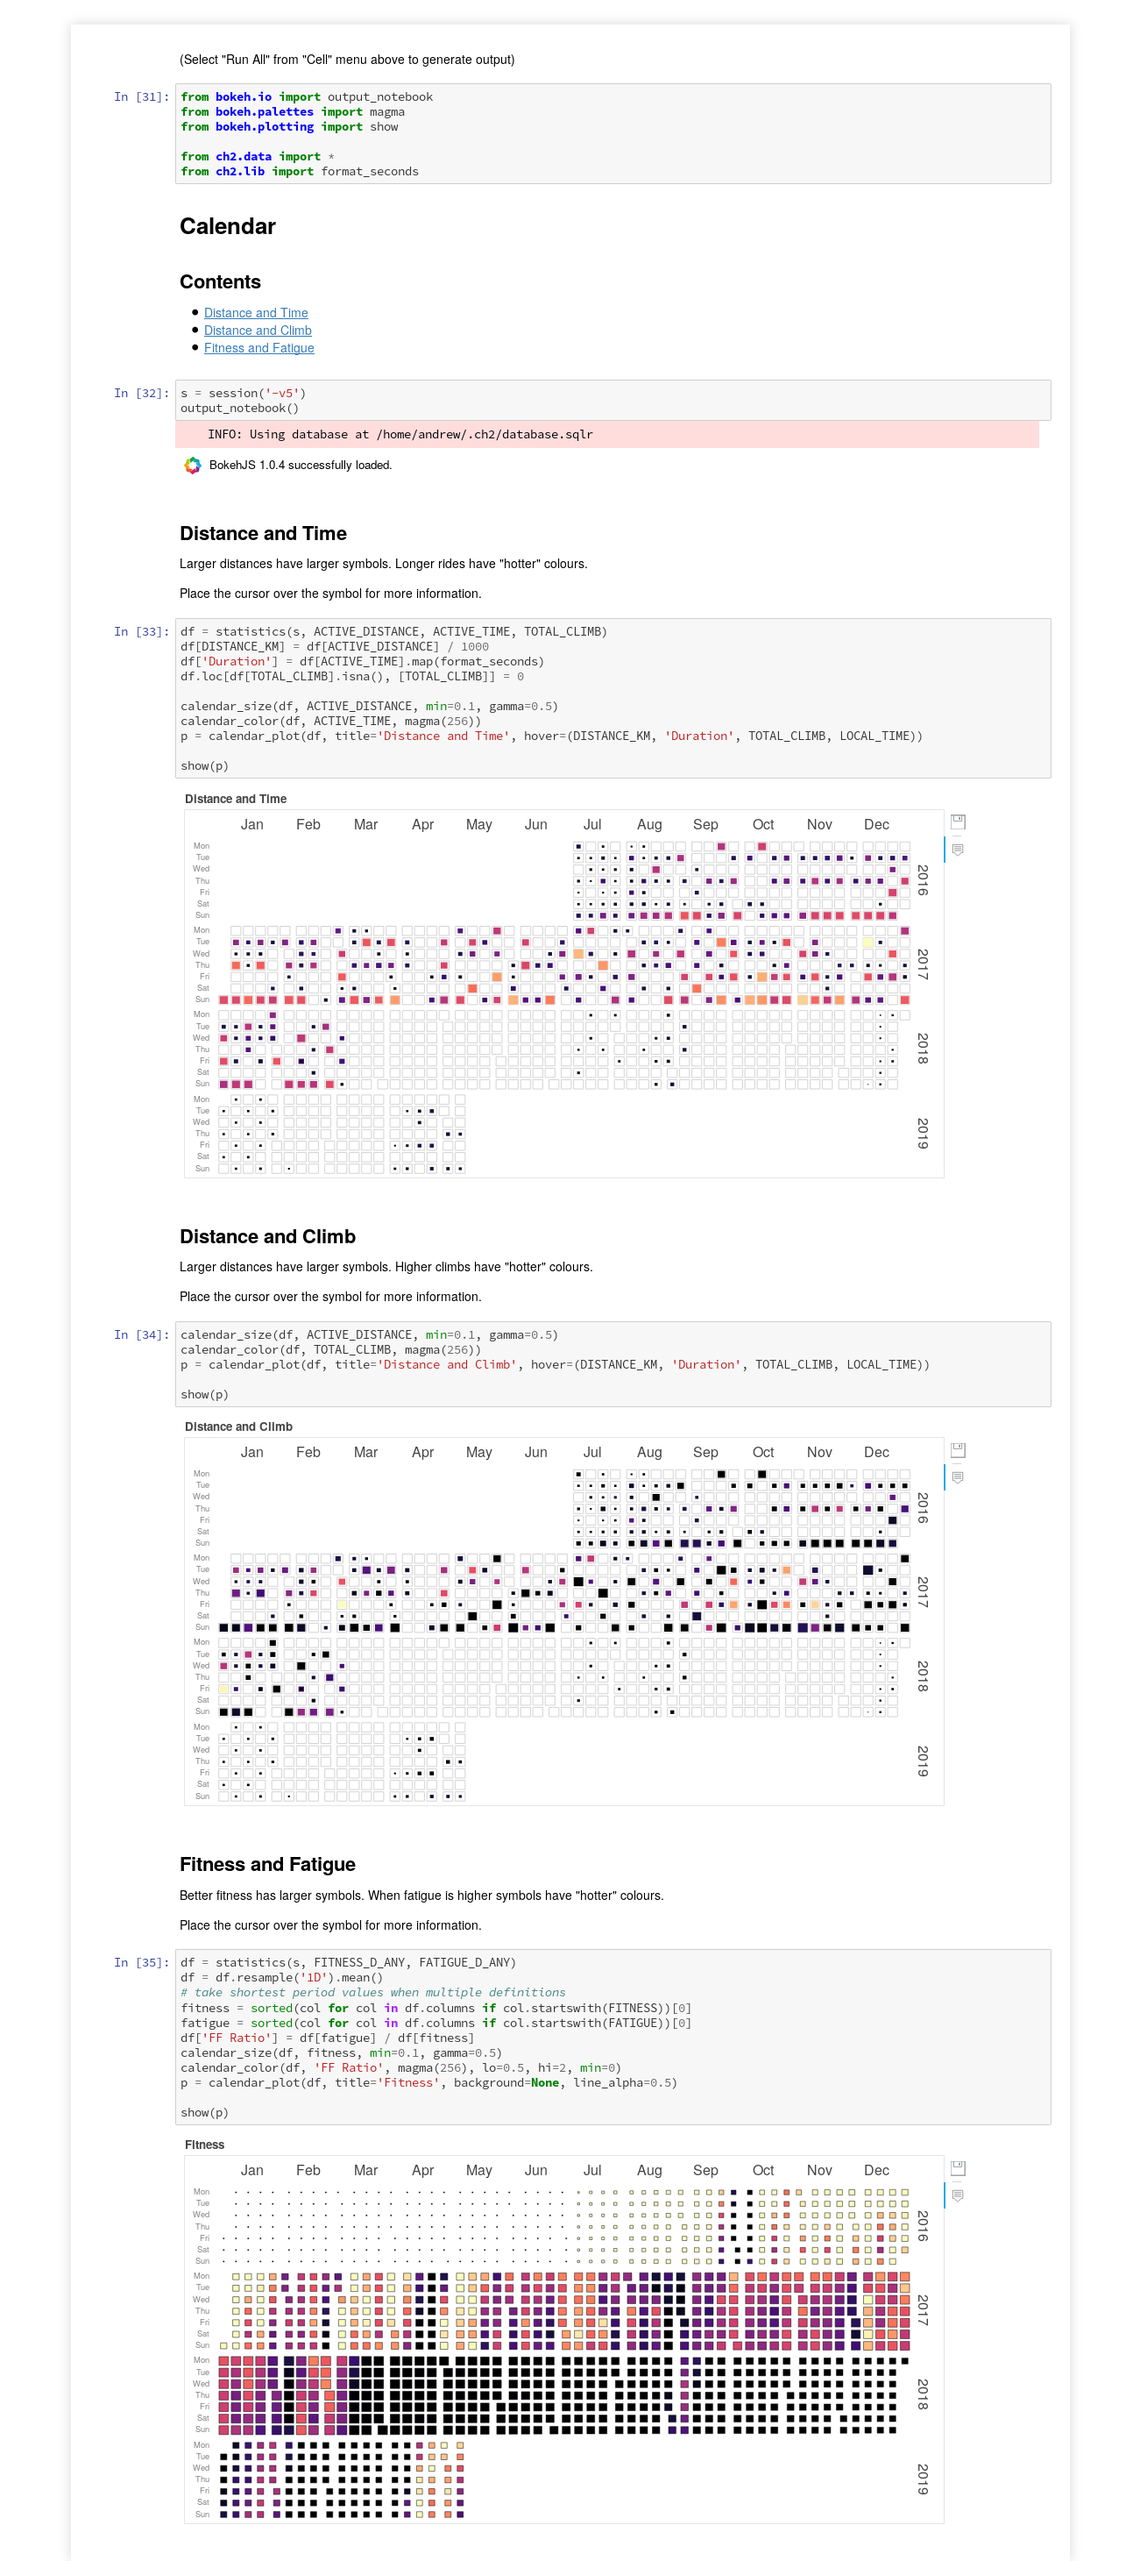
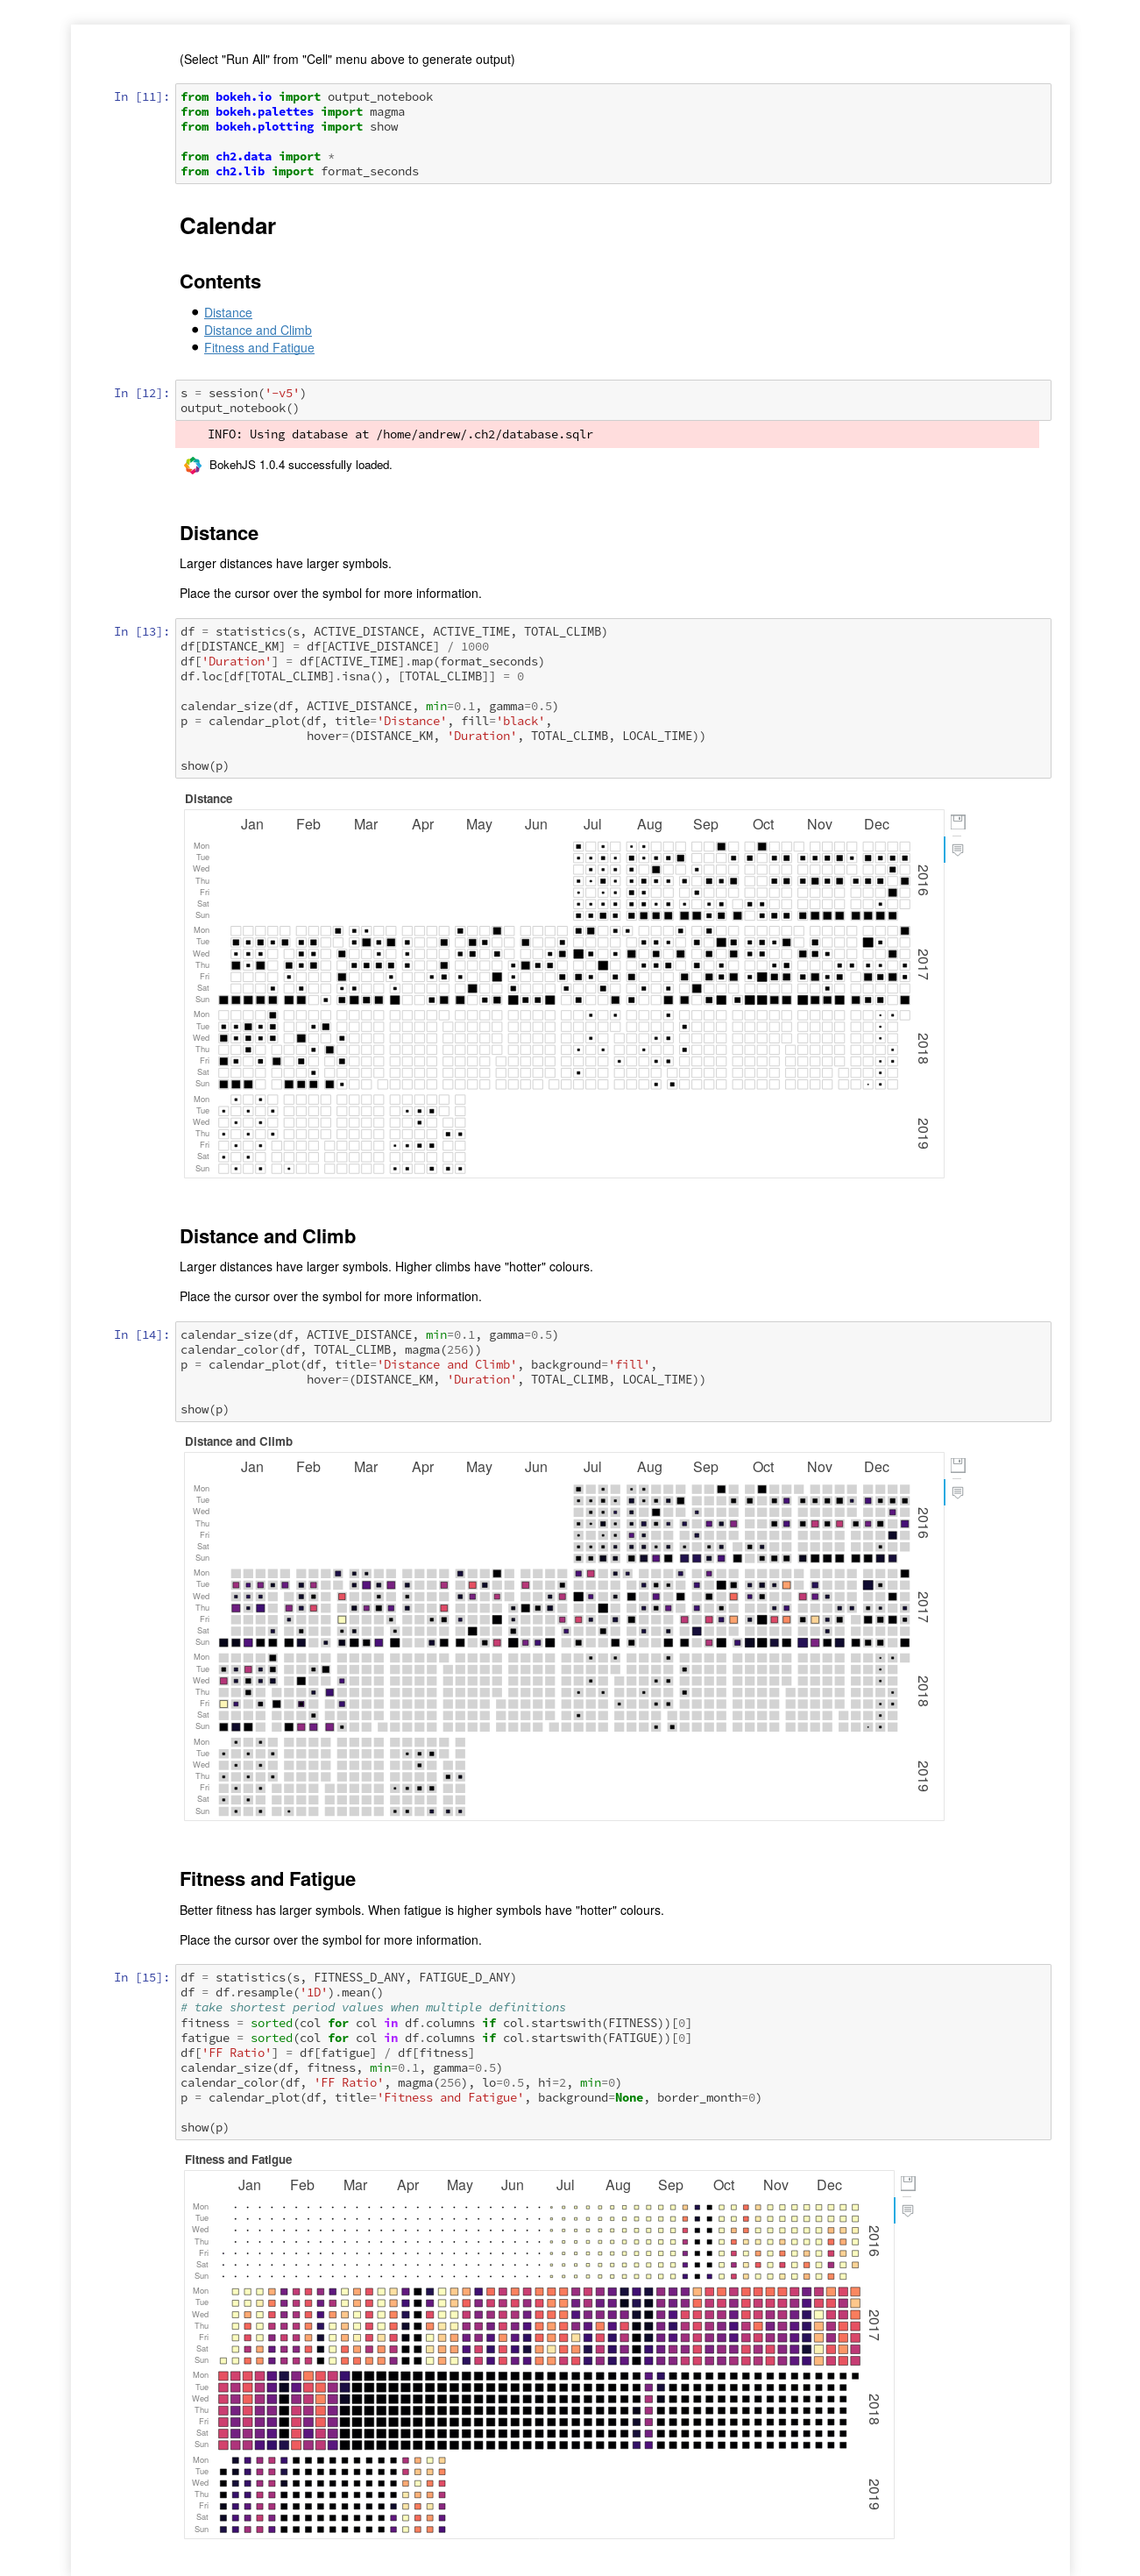
calendar tweaks

Changed region(s): [[0.1537, 0.0312, 0.7994, 0.9969]]

diff --git a/ch2/uranus/template/calendar.py b/ch2/uranus/template/calendar.py
@@ -36,7 +36,7 @@ def calendar():
     df.loc[df[TOTAL_CLIMB].isna(), [TOTAL_CLIMB]] = 0
 
     calendar_size(df, ACTIVE_DISTANCE, min=0.1, gamma=0.5)
-    p = calendar_plot(df, title='Distance and Time', fill='black',
+    p = calendar_plot(df, title='Distance', fill='black',
                       hover=(DISTANCE_KM, 'Duration', TOTAL_CLIMB, LOCAL_TIME))
 
     show(p)
